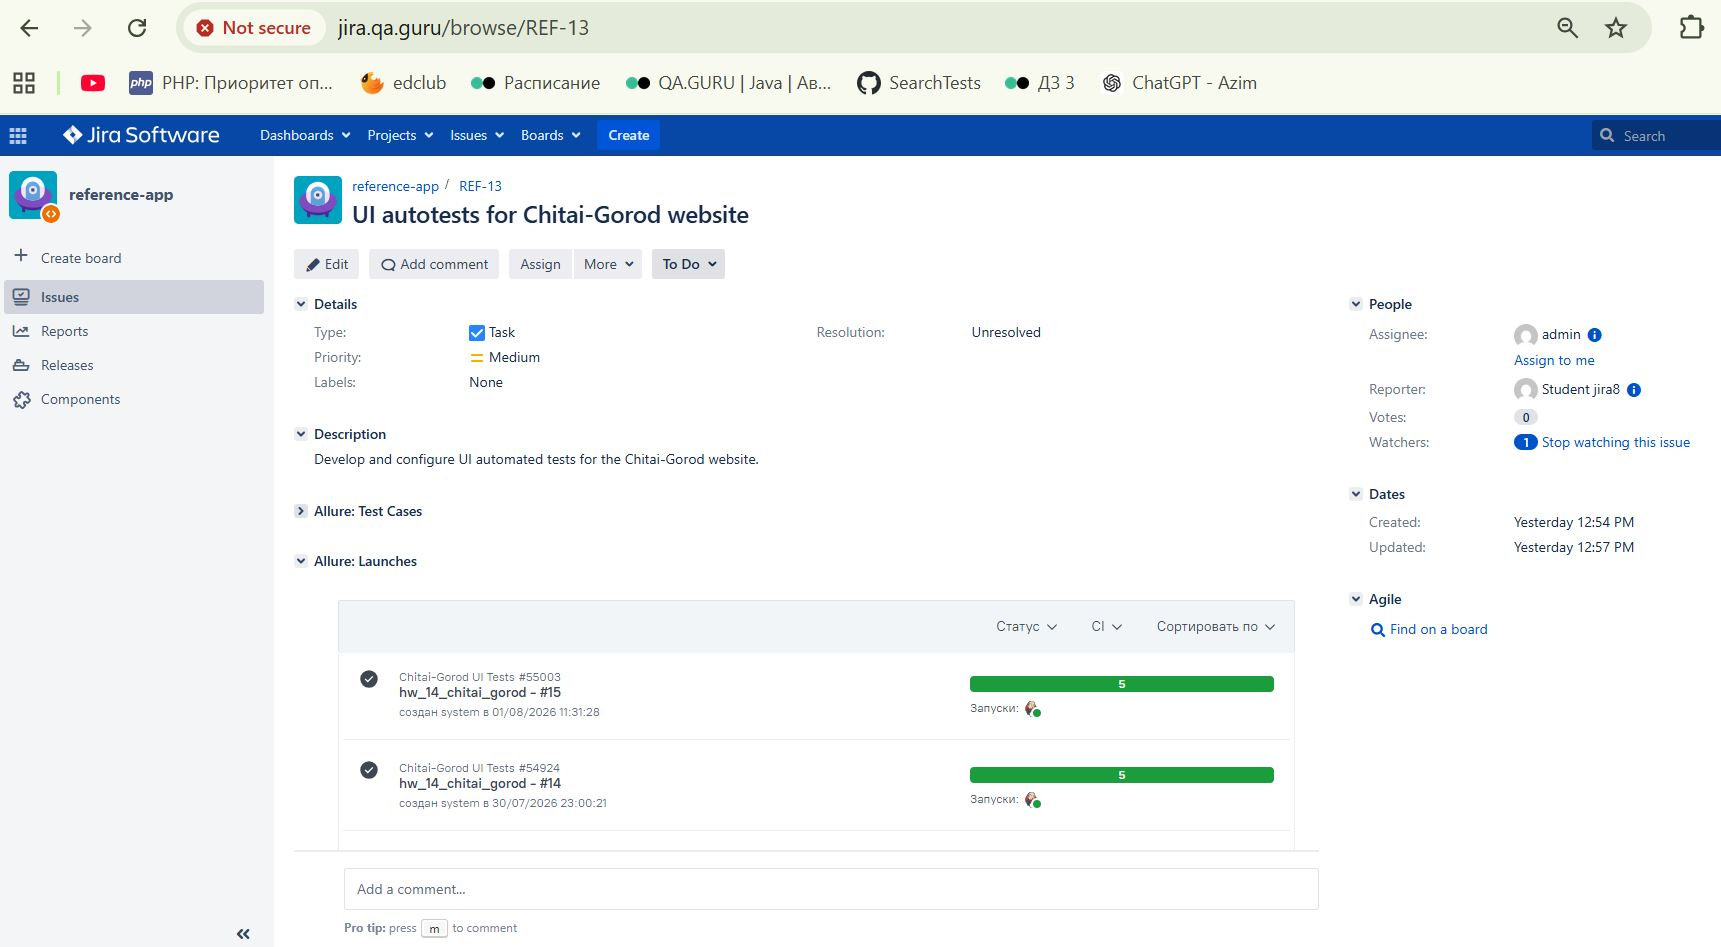
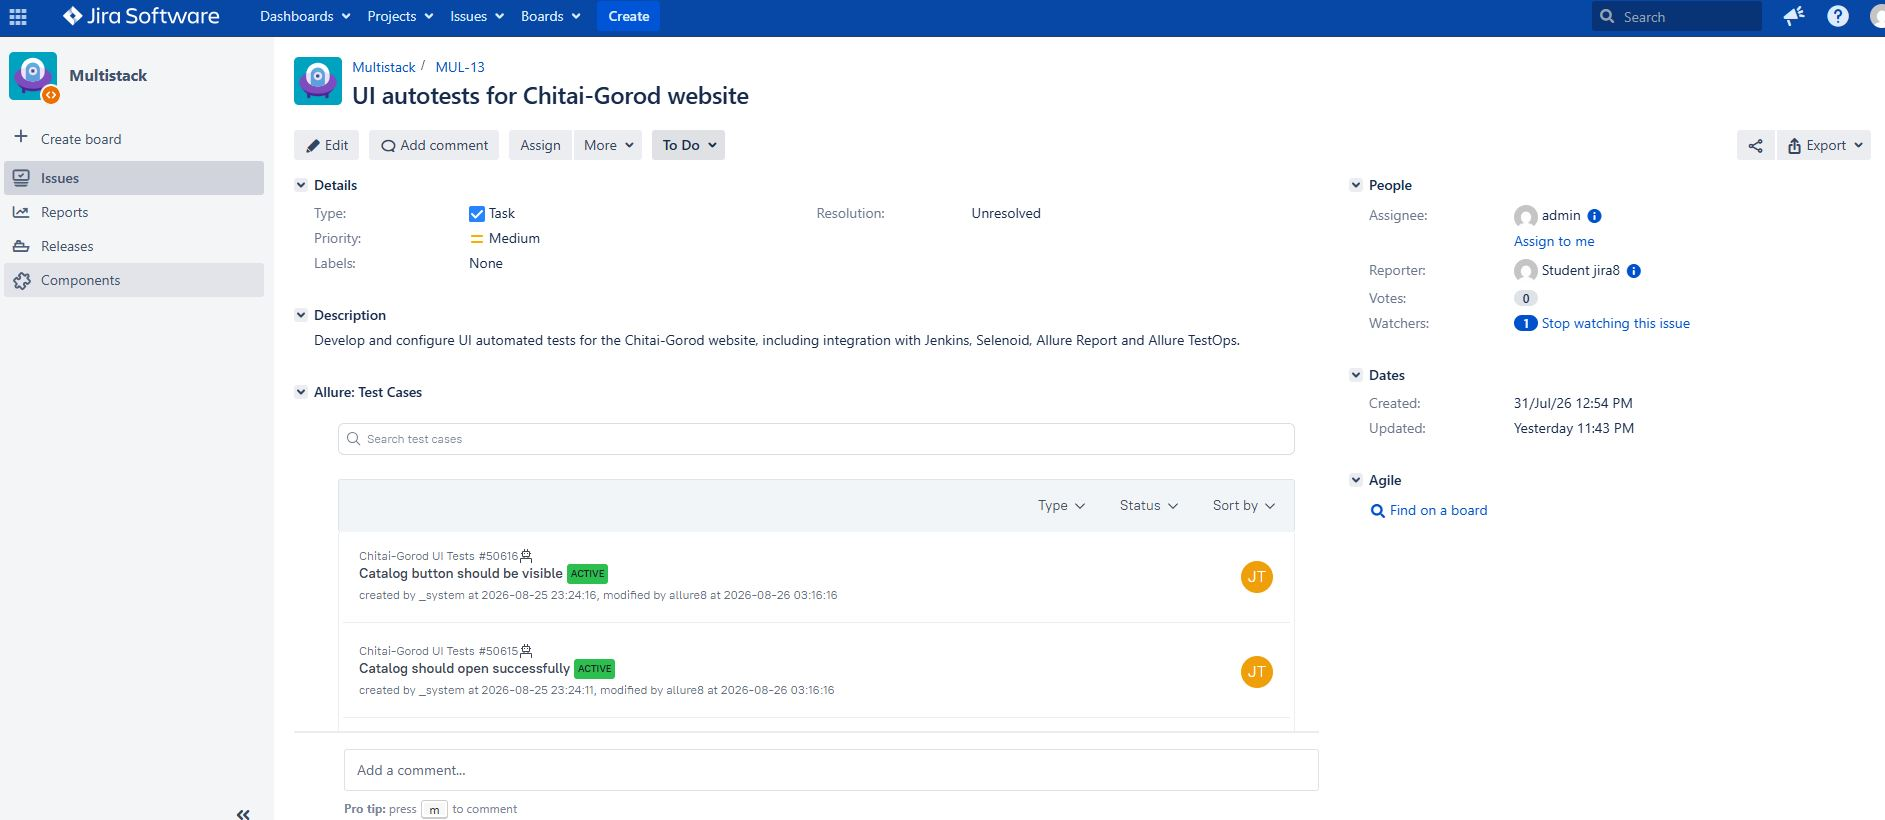
updated readme and screenshots

diff --git a/README.md b/README.md
@@ -12,15 +12,26 @@ This project is designed to automate UI testing of the [Chitai-Gorod](https://ww
 
 ## Test Coverage
 
-The project includes seven automated UI test cases:
+The project includes 8 automated UI test methods with 9 test executions:
 
 - opening the home page;
+- checking that the catalog button is visible;
 - opening the catalog;
 - entering a book title in the search field;
 - searching for the author “Чингиз Айтматов”;
 - searching for the book “Белый пароход”;
-- searching for the book “Джамиля” using a parameterized test;
-- searching for the book “Плаха” using a parameterized test.
+- searching for the books “Джамиля” and “Плаха” using a parameterized test;
+- searching for a non-existent book and checking that no results are found.
+
+### Manual Test Cases
+
+The project also includes manual test cases in Allure TestOps covering:
+
+- searching for a book by title;
+- searching for books by author;
+- opening a book card from search results;
+- opening the main page;
+- searching for a non-existent book.
 
 ## Technologies
 
@@ -62,7 +73,7 @@ The following command is used to run the tests locally on Windows:
 
 Selenoid is used for remote test execution in Jenkins.
 
-### [Open Jenkins Job](https://jenkins.qa.guru/view/java-students/job/hw_14_chitai_gorod/)
+### [Open Jenkins Job](https://jenkins.qa.guru/job/chitai-gorod-diploma/)
 
 The following command is used to run the tests in Jenkins:
 
@@ -74,43 +85,43 @@ clean test
 
 ## Integrations
 
-### [Allure Report](https://jenkins.qa.guru/job/hw_14_chitai_gorod/lastSuccessfulBuild/allure/)
+### [Allure Report](https://jenkins.qa.guru/job/chitai-gorod-diploma/14/allure/#)
 
-Allure Report displays test execution results, test steps, screenshots, page source, browser console logs, 
+Allure Report displays test execution results, test steps, screenshots, page source, browser console logs,
 and videos of test execution in Selenoid.
 
 ![Allure Report](media/allure-report.jpg)
 
-### [Allure TestOps](https://allure.autotests.cloud/project/5302/dashboards)
+### [Allure TestOps](https://allure.qa.guru/project/5302/dashboards)
 
 Test execution results are sent from Jenkins to Allure TestOps.
 
-Allure TestOps displays automated test cases, launch history, execution results, and test automation statistics.
-
+Allure TestOps displays automated and manual test cases, launch history, execution results,
+test steps, and test automation statistics.
 
 ![Allure TestOps](media/allure-testops.jpg)
 
-An example of an Allure TestOps launch with executed tests, test steps, and Jira integration is shown below:
+An example of an Allure TestOps launch with executed automated tests, test steps, and Jira integration is shown below:
 
 ![Allure TestOps Launch](media/allure-testops-launch.jpg)
 
-### [Jira](https://jira.qa.guru/browse/REF-13)
+### [Jira](https://jira.qa.guru/browse/MUL-13)
 
 The following Jira issue was created for the project:
 
-**REF-13 — UI autotests for Chitai-Gorod website**
+**MUL-13 — UI autotests for Chitai-Gorod website**
 
-The Jira issue is linked to the automated test cases and the Allure TestOps launch.
+The Jira issue describes the UI automation project and its integrations with Jenkins, Selenoid,
+Allure Report, and Allure TestOps.
 
 ![Jira Integration](media/jira.jpg)
 
 ## Telegram Notifications
 
-After the Jenkins build is completed, a Telegram notification with the test execution results and a link to the 
-Allure Report is sent as shown below:
+Telegram notifications are configured to send test execution results and a link to the Allure Report after the Jenkins build.
 
-![Telegram Notification](media/telegram.jpg)
+Due to network restrictions in the Jenkins environment, connection to the Telegram API may be unavailable.
 
 ## Repository
 
-### [GitHub Repository](https://github.com/tumenbaevaj/full_project)
+### [GitHub Repository](https://github.com/tumenbaevaj/chitai-gorod-diploma)
